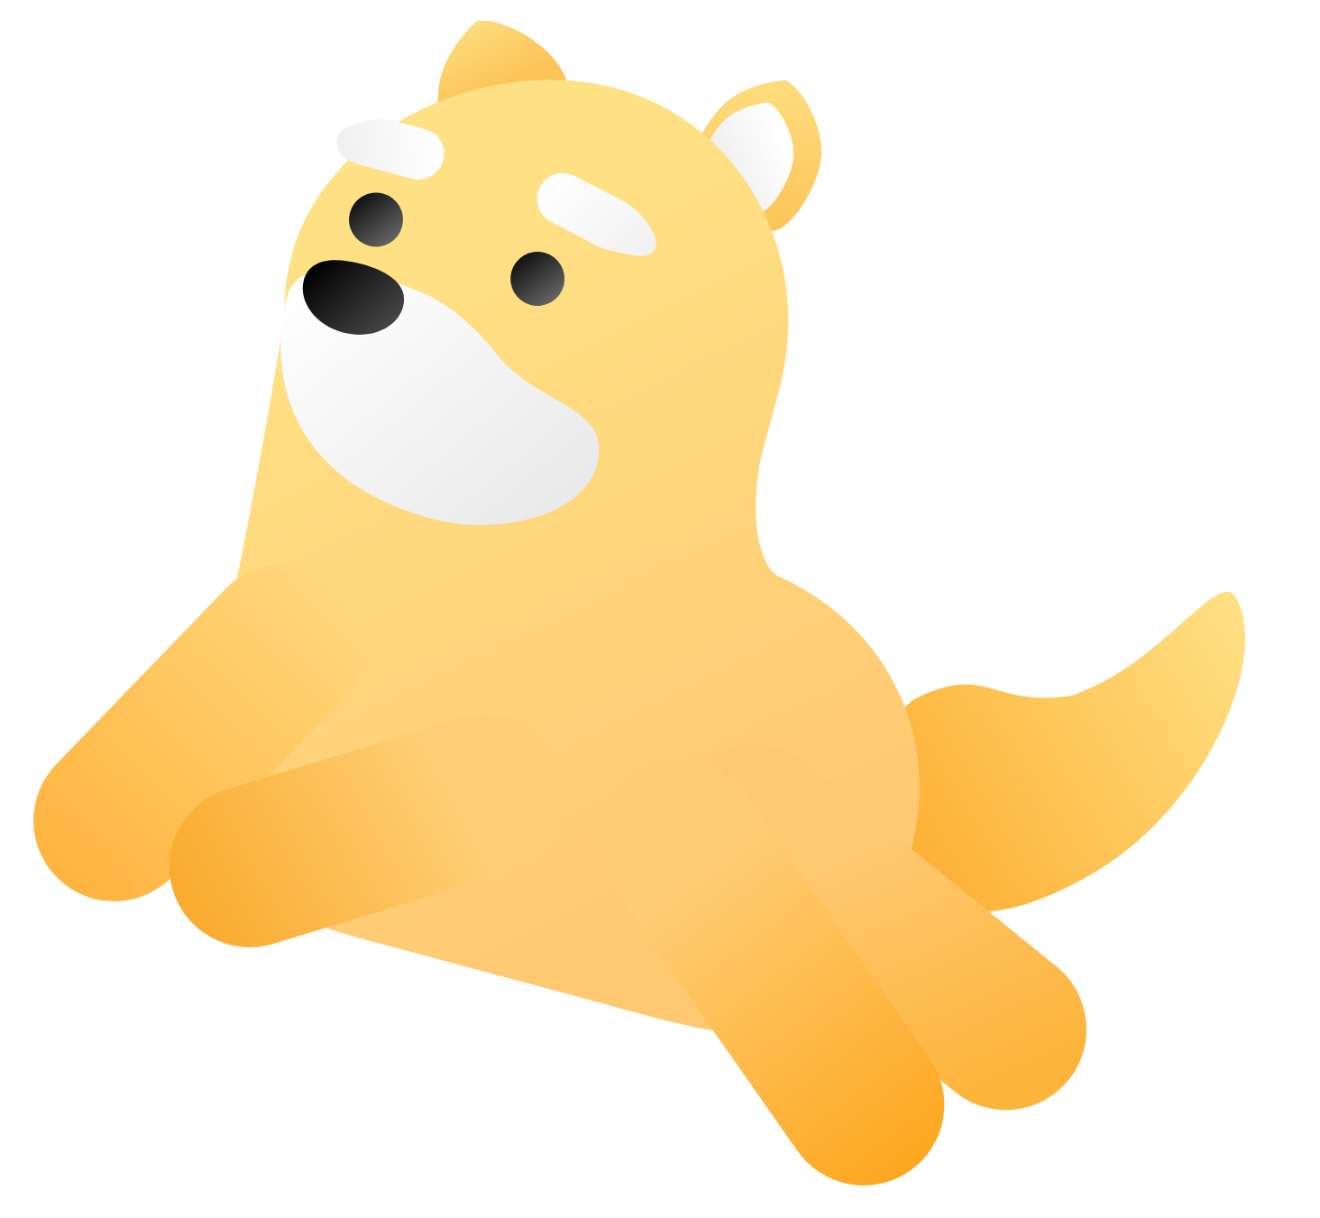
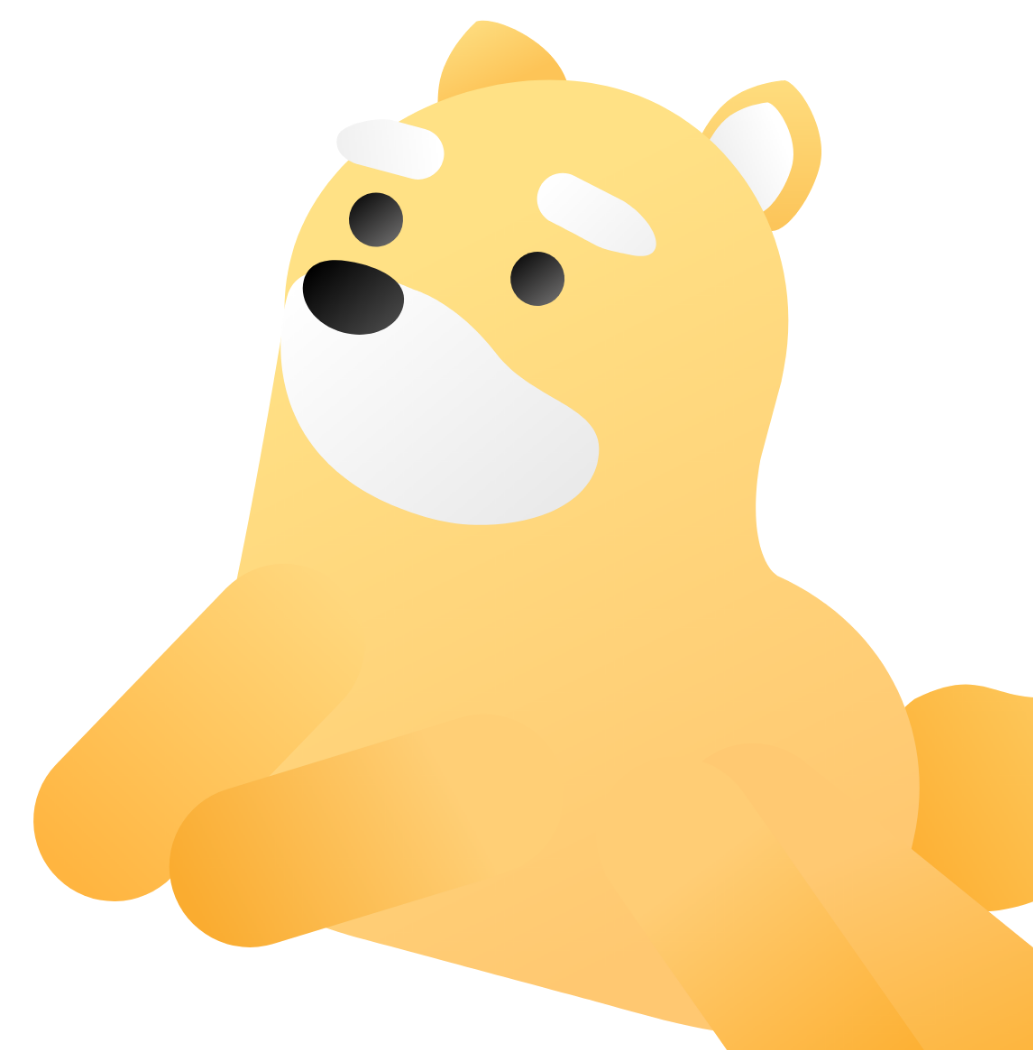
feat(login): page desc

diff --git a/src/pages/Login.vue b/src/pages/Login.vue
@@ -18,6 +18,9 @@ export default {
       <span class="login__title login__title-top">시바</span>
       <span class="login__title login__title-center">염탐하지</span>
       <span class="login__title login__title-bottom">마라</span>
+      <span class="login__title login__title-desc">
+        INU 프로젝트 관리 솔루션, 로트바일러
+      </span>
     </h1>
     <div class="login__form">
       <input
@@ -59,6 +62,7 @@ html {
   padding: 0;
   width: 100%;
   height: 100%;
+  position: fixed;
 
   &__title {
     font-family: 'yg-jalnan';
@@ -83,14 +87,23 @@ html {
       -webkit-text-stroke-color: #000;
       color: transparent;
     }
+
+    &-desc {
+      display: block;
+      margin-left: 1.5rem;
+      font-size: 1.5rem;
+      color: #FAAC30;
+      -webkit-text-stroke-width: 0;
+      line-height: unset;
+    }
   }
 
   &__illust {
-    width: 60%;
+    width: 50%;
     z-index: -1;
     position: absolute;
-    right: -150px;
-    bottom: -50px;
+    right: 0;
+    bottom: 0;
   }
 
   &__form {
